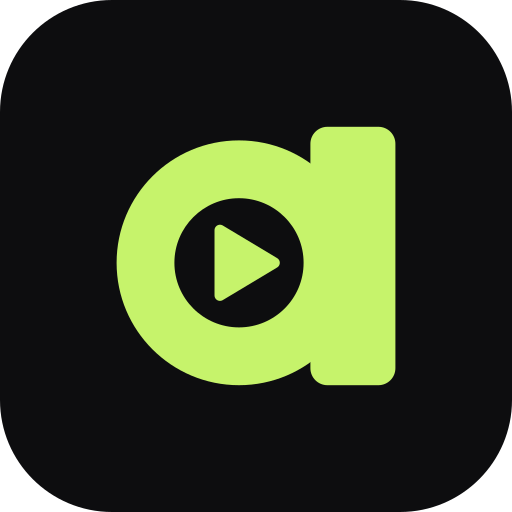
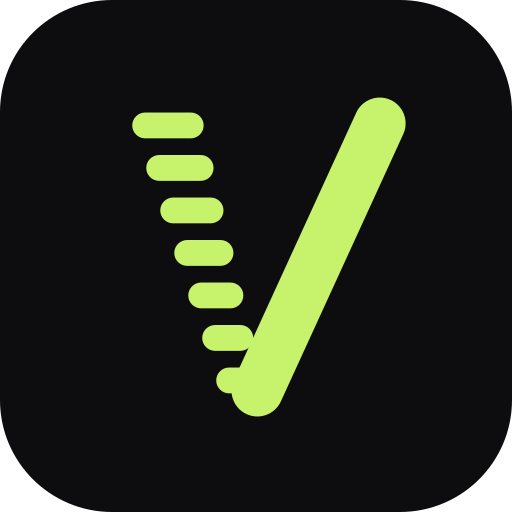
VoxReel: the new name, the voice-to-video V mark, and search and sharing basics
Rebranded from Aether Shorts to VoxReel (voxreel.github.io). The mark: a V whose left arm is voice bars and
right arm one solid stroke (concept from the app's image model, redrawn as SVG). Search: a clear title and
description, a canonical URL, Open Graph and Twitter cards with a 1200x630 preview, SoftwareApplication and
FAQPage structured data, robots.txt and sitemap.xml, and a six-question FAQ on the page.

Changed region(s): [[0.2188, 0.1875, 0.8125, 0.8125]]

diff --git a/index.html b/index.html
@@ -3,25 +3,40 @@
 <head>
   <meta charset="utf-8" />
   <meta name="viewport" content="width=device-width, initial-scale=1" />
-  <title>Aether Shorts — say it once, we edit the rest</title>
-  <meta name="description" content="Say it once — Aether edits the rest. Upload a voice note, a selfie take or podcast clips and get a finished short: captions, graphics, logos, pictures, sound, in the look you pick." />
+  <title>VoxReel — turn what you say into finished shorts</title>
+  <meta name="description" content="VoxReel turns a voice note, a selfie take or podcast clips into a finished short — captions on every word, graphics from what you said, logos, pictures, sound and no dead air. Say it once; we edit the rest." />
+  <link rel="canonical" href="https://voxreel.github.io/" />
+  <meta name="theme-color" content="#0d0d0f" />
+  <meta property="og:type" content="website" />
+  <meta property="og:site_name" content="VoxReel" />
+  <meta property="og:url" content="https://voxreel.github.io/" />
+  <meta property="og:title" content="VoxReel — say it once, we edit the rest" />
+  <meta property="og:description" content="Turn a voice note, a selfie take or podcast clips into a finished short: captions, graphics, logos, sound — and no dead air." />
+  <meta property="og:image" content="https://voxreel.github.io/brand/og.png" />
+  <meta property="og:image:width" content="1200" />
+  <meta property="og:image:height" content="630" />
+  <meta name="twitter:card" content="summary_large_image" />
+  <meta name="twitter:title" content="VoxReel — say it once, we edit the rest" />
+  <meta name="twitter:description" content="Turn a voice note, a selfie take or podcast clips into a finished short." />
+  <meta name="twitter:image" content="https://voxreel.github.io/brand/og.png" />
+  <script type="application/ld+json">[{"@context": "https://schema.org", "@type": "SoftwareApplication", "name": "VoxReel", "applicationCategory": "MultimediaApplication", "operatingSystem": "Web", "url": "https://voxreel.github.io/", "description": "VoxReel turns a voice note, a selfie take or podcast clips into a finished short — captions on every word, graphics from what you said, logos, pictures, sound and no dead air. Say it once; we edit the rest.", "image": "https://voxreel.github.io/brand/og.png", "offers": {"@type": "Offer", "price": "0", "priceCurrency": "USD", "availability": "https://schema.org/PreOrder"}}, {"@context": "https://schema.org", "@type": "FAQPage", "mainEntity": [{"@type": "Question", "name": "Do I need to show my face?", "acceptedAnswer": {"@type": "Answer", "text": "No. Send a voice note or any recording without video and VoxReel builds the picture — graphics, images and B-roll — around what you said."}}, {"@type": "Question", "name": "What can I upload?", "acceptedAnswer": {"@type": "Answer", "text": "A voice note, a selfie take, a podcast clip, or several takes or notes at once. Upright (9:16) or landscape (16:9) video, or audio alone."}}, {"@type": "Question", "name": "Which languages does it caption?", "acceptedAnswer": {"@type": "Answer", "text": "English, Hindi and Hinglish are tested; every word is captioned on the moment you say it."}}, {"@type": "Question", "name": "Can I tell it what I want?", "acceptedAnswer": {"@type": "Answer", "text": "Yes, in a sentence: who it's for, a number to make big, a logo to show. Leave it out and VoxReel decides."}}, {"@type": "Question", "name": "How long can my recording be?", "acceptedAnswer": {"@type": "Answer", "text": "Up to about two minutes for a short. Longer recordings can be split into several shorts."}}, {"@type": "Question", "name": "Is my clip published anywhere?", "acceptedAnswer": {"@type": "Answer", "text": "No. Your recording is only used to make your short, and never published without asking you."}}]}]</script>
   <link rel="preconnect" href="https://fonts.googleapis.com" />
   <link rel="preconnect" href="https://fonts.gstatic.com" crossorigin />
   <link rel="stylesheet" href="https://fonts.googleapis.com/css2?family=Bricolage+Grotesque:opsz,wght@12..96,500;12..96,700;12..96,800&family=Inter:wght@400;500;600&family=JetBrains+Mono:wght@400;600&display=swap" />
-  <link rel="stylesheet" href="styles.css?v=202611151754" />
+  <link rel="stylesheet" href="styles.css?v=202611151846" />
   <link rel="icon" href="brand/app-icon.svg" type="image/svg+xml" />
   <link rel="apple-touch-icon" href="brand/apple-touch-icon.png" />
-  <meta property="og:image" content="brand/app-icon-512.png" />
 </head>
 <body>
   <a class="skip" href="#main">Skip to the content</a>
 
   <header class="nav">
-    <a class="brand" href="#top" aria-label="Aether Shorts, home"><img class="mark-img" src="brand/mark.svg" alt="" width="22" height="22" />Aether Shorts</a>
+    <a class="brand" href="#top" aria-label="VoxReel, home"><img class="mark-img" src="brand/mark.svg" alt="" width="22" height="22" />VoxReel</a>
     <nav aria-label="Sections">
       <a href="#pairs">Raw → edited</a>
       <a href="#does">What it does</a>
       <a href="#looks">Looks</a>
+      <a href="#faq">FAQ</a>
     </nav>
     <a class="btn small" href="#access">Get early access</a>
   </header>
@@ -37,7 +52,7 @@
             <span class="w">We</span><span class="gap" data-from="0.82"></span><span class="w">edit</span><span class="gap" data-from="1.40"></span><span class="w accent">the rest.</span>
           </span>
         </h1>
-        <p class="lede">Upload a voice note, a selfie take or a pile of podcast clips. Aether edits it into a finished short — captions on every word, graphics written from what you said, the logos and pictures you mention, sound, and the dead air gone — in the look you pick.</p>
+        <p class="lede">Upload a voice note, a selfie take or a pile of podcast clips. VoxReel edits it into a finished short — captions on every word, graphics written from what you said, the logos and pictures you mention, sound, and the dead air gone — in the look you pick.</p>
         <div class="row">
           <a class="btn" href="#access">Get early access</a>
           <a class="btn ghost" href="#pairs">See raw → edited</a>
@@ -61,7 +76,7 @@
       <header class="section-head">
         <p class="mark"><span>00:04</span>Point</p>
         <h2>What you recorded. What you get back.</h2>
-        <p>Left, the file as it came off the phone. Right, the short Aether made from it — with the instructions it was given, if any.</p>
+        <p>Left, the file as it came off the phone. Right, the short VoxReel made from it — with the instructions it was given, if any.</p>
       </header>
       <div class="pair-list" id="pair-list"></div>
       <button class="btn ghost more" type="button" id="more" aria-expanded="false">View more examples</button>
@@ -89,6 +104,11 @@
         <p>Each one made from an ordinary recording and finished at 1080 × 1920. Tap one to see what came in, what it was told, and what came out.</p>
       </header>
       <div class="reel" id="reel" tabindex="0" aria-label="Example shorts, scroll sideways"></div>
+    </section>
+
+    <section class="faq" id="faq" aria-labelledby="faq-title">
+      <header class="section-head"><h2 id="faq-title">Questions</h2></header>
+      <div class="faq-list"><details><summary>Do I need to show my face?</summary><p>No. Send a voice note or any recording without video and VoxReel builds the picture — graphics, images and B-roll — around what you said.</p></details><details><summary>What can I upload?</summary><p>A voice note, a selfie take, a podcast clip, or several takes or notes at once. Upright (9:16) or landscape (16:9) video, or audio alone.</p></details><details><summary>Which languages does it caption?</summary><p>English, Hindi and Hinglish are tested; every word is captioned on the moment you say it.</p></details><details><summary>Can I tell it what I want?</summary><p>Yes, in a sentence: who it's for, a number to make big, a logo to show. Leave it out and VoxReel decides.</p></details><details><summary>How long can my recording be?</summary><p>Up to about two minutes for a short. Longer recordings can be split into several shorts.</p></details><details><summary>Is my clip published anywhere?</summary><p>No. Your recording is only used to make your short, and never published without asking you.</p></details></div>
     </section>
 
     <!-- CTA: early access, then an optional clip of your own -->
@@ -141,7 +161,7 @@
               <ul class="files" id="files-media"></ul>
             </label>
           </div>
-          <label class="consent"><input type="checkbox" name="consent" />I own this recording (or have permission), and Aether may edit it. You won't publish it without asking me.</label>
+          <label class="consent"><input type="checkbox" name="consent" />I own this recording (or have permission), and VoxReel may edit it. You won't publish it without asking me.</label>
         </fieldset>
 
         <label class="trap" aria-hidden="true">Website<input name="website" tabindex="-1" autocomplete="off" /></label>
@@ -150,15 +170,15 @@
           <div class="progress" id="progress" hidden><div class="progress-track"><i id="progress-bar"></i></div><span id="progress-label" class="sr" aria-live="polite"></span></div>
           <p class="form-note" id="form-note" role="status"></p>
         </div>
-        <p class="privacy">We only use your details to contact you about Aether. Your clip is never published without asking you.</p>
+        <p class="privacy">We only use your details to contact you about VoxReel. Your clip is never published without asking you.</p>
       </form>
       <div class="done" id="done" tabindex="-1" role="status" hidden></div>
     </section>
   </main>
 
   <footer class="foot">
-    <span class="brand"><img class="mark-img" src="brand/mark.svg" alt="" width="22" height="22" />Aether Shorts</span>
-    <span>Every example on this page was edited by Aether from an unedited recording. Visits are counted without cookies; nothing identifies you.</span>
+    <span class="brand"><img class="mark-img" src="brand/mark.svg" alt="" width="22" height="22" />VoxReel</span>
+    <span>Every example on this page was edited by VoxReel from an unedited recording. Visits are counted without cookies; nothing identifies you.</span>
   </footer>
 
   <div class="detail" id="detail" role="dialog" aria-modal="true" aria-labelledby="detail-title" hidden>
@@ -168,7 +188,7 @@
     </div>
   </div>
 
-  <script src="data/site-data.js?v=202611151754"></script>
-  <script src="main.js?v=202611151754"></script>
+  <script src="data/site-data.js?v=202611151846"></script>
+  <script src="main.js?v=202611151846"></script>
 </body>
 </html>

diff --git a/styles.css b/styles.css
@@ -370,3 +370,12 @@ h1 .line { display: block; }
 .done b { color: var(--ink); font-weight: 600; }
 @media (prefers-reduced-motion: reduce) { .spin { animation-duration: 2.4s; } }
 .form[hidden] { display: none; }   /* .form sets display: grid, which would otherwise beat the hidden attribute */
+
+/* FAQ */
+.faq-list { display: grid; gap: 10px; max-width: 820px; }
+.faq details { border: 1px solid var(--line); border-radius: 16px; background: var(--panel); padding: 0 20px; }
+.faq summary { cursor: pointer; list-style: none; padding: 18px 0; font: 600 18px/1.35 var(--display); display: flex; justify-content: space-between; gap: 16px; }
+.faq summary::-webkit-details-marker { display: none; }
+.faq summary::after { content: "+"; color: var(--kept); font: 500 22px/1 var(--mono); }
+.faq details[open] summary::after { content: "–"; }
+.faq details p { margin: 0 0 18px; color: var(--muted); max-width: 64ch; }

diff --git a/main.js b/main.js
@@ -1,4 +1,4 @@
-// Aether Shorts landing — no build step, no dependencies. Data comes from data/site-data.js (window.SITE).
+// VoxReel landing — no build step, no dependencies. Data comes from data/site-data.js (window.SITE).
 (() => {
   const SITE = window.SITE;
   const reduced = matchMedia('(prefers-reduced-motion: reduce)').matches;

diff --git a/README.md b/README.md
@@ -1,6 +1,6 @@
-# Aether Shorts — landing page
+# VoxReel — landing page
 
-A one-page site for Aether Shorts, built like a short: each section carries a timecode and a scene mark (HOOK,
+A one-page site for VoxReel (live at https://voxreel.github.io, repo voxreel/voxreel.github.io), built like a short: each section carries a timecode and a scene mark (HOOK,
 POINT, PAYOFF, CTA), the hero headline's dead air is cut to a breath, and every example on the page is a real edit
 the app made from an unedited recording.
 
